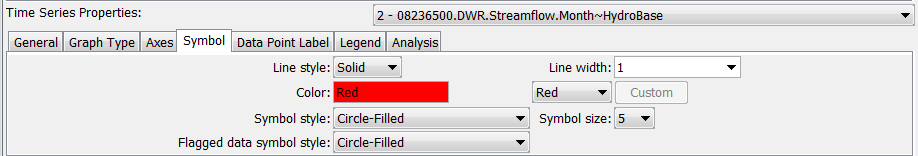
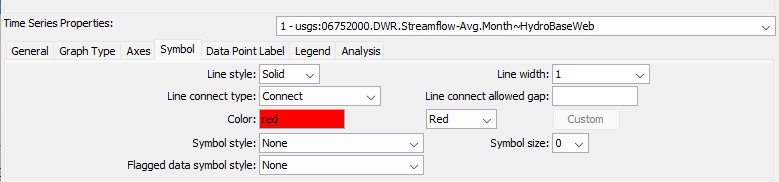
Update for 14.9.2 release, issue #141
Mainly this involves enabling step graphs.

Changed region(s): [[0.0, 0.0, 1.0, 1.0]]

diff --git a/mkdocs-project/docs/appendix-tsview/tsview.md b/mkdocs-project/docs/appendix-tsview/tsview.md
@@ -639,6 +639,18 @@ The following example is for reservoir storage and also indicates data issues on
 **<p style="text-align: center;">
 Example Stacked Area Graph (<a href="../TSView_Graph_AreaStacked_YearReservoir.png">see full-size image</a>)
 </p>**
+
+The following example uses the same time series 3 times but with different `LineConnectType` time series product values
+to control the visualization.
+Using steps can provide a graph that is similar to a bar graph but without the problems of ensuring equal spacing between bars.
+
+**<p style="text-align: center;">
+![Time Series Stacked Area Graph with different LineConnectType](TSView_Graph_AreaStacked_LineConnectType.png)
+</p>**
+
+**<p style="text-align: center;">
+Example Stacked Area Graph with Different `LineConnectType` (<a href="../TSView_Graph_AreaStacked_LineConnectType.png">see full-size image</a>)
+</p>**
  
 #### Bar Graph ####
 
@@ -1848,6 +1860,8 @@ Data (Time Series) Properties
 |`LegendFormat`|The legend for the data can be specified and will override the SubProduct `LegendFormat` property (see that property for details).  The time series property `tsp:LegendFormat` will be used if found.|`Auto`|
 |`LineStyle`|Line style. Currently only `None` (e.g., for symbols only) and `Solid` are allowed.|`Solid`|
 |`LineWidth`|Line width, pixels.|`1`|
+|`LineConnectType`|Indicates how to connect points with a line, for `Line`, `Area`, and `AreaStacked` graph types:<ul><li>`Connect` - connect the data points</li><li>`StepAuto` - automatically determine the connect type:<ul><li>`StepUsingValue` - irregular interval time series and regular interval time series that use dates (no time), because the value should apply for the entire date</li><li>`StepUsingNextValue` - regular interval time series that include time (the timestamp on values is interval-ending in TSTool)</li></ul></li><li>`StepUsingValue`- a stepped line is used to connect points, with the current value being used for the step until the next point</li><li>`StepUsingNextValue` - a stepped line is used to connect points, with the next point's value being used for the step until the next point</ul> | `Connect` |
+|`LineConnectAllowedGap`|Used with irregular interval time series and `Line`, `Area`, and `AreaStacked` graph types to indicated the maximum allowed gap between date/times. Specify as an interval (e.g., `1Day`, `3Month`). If a gap is detected, the line will not be drawn across the gap. This property is useful because irregular interval time series often record only measurements and not missing values.  Therefore, the property can cause a data gap in the graph such as due to seasonal data collection outages. | Any gap is allowed and a line will be drawn between all data points. |
 |`PeriodEnd`|Ending date for time series data in the data item. The date should be formatted according to common conventions (e.g., `YYYY-MM-DD HH:mm`), and should ideally be of appropriate precision for the data being queried.  This property is often set at run time.|Full period is read.|
 |`PeriodStart`|Starting date for time series data in the data item. The date should be formatted according to common conventions (e.g., `YYYY-MM-DD HH:mm`), and should ideally be of appropriate precision for the data being queried. This property is often set at run time.|Full period is read.|
 |`RasterGraphLegendPosition` | The position of raster graph legend.  See values for the `LegendPosition` property.  Currently only `Right` is supported.  The normal legend showing the time series can be displayed in addition to the raster graph legend. | `Right` |
@@ -1861,7 +1875,7 @@ Data (Time Series) Properties
 |`XYScatterConfidenceInterval`|This property is only used with XY scatter plots.  If not blank, the value indicates that confidence level lines should be drawn on the XY Scatter plot for the given confidence interval, percent.  Currently only 99 and 95 percent confidence intervals are supported.  The lines will only be drawn if the curve fit line is drawn (see `RegressionLineEnabled`).|Blank (do not draw).|
 |`YAxis`|Y-axis to use (`Left` or `Right`).|`Left`|
 
-The following table lists symbol styles (shape types) tht can be used to draw a symbol at each data point.
+The following table lists symbol styles (shape types) that can be used to draw a symbol at each data point.
 Some styles have special meaning (e.g., `Instream-Flow` and `Teacup`) and are also used with spatial data layers.
 Additional styles are available for spatial data layers,
 for example to show the value of multiple time series at a point in space.

diff --git a/mkdocs-project/docs/appendix-release-notes/release-notes-14.md b/mkdocs-project/docs/appendix-release-notes/release-notes-14.md
@@ -5,6 +5,7 @@ See also the [GitHub repository issues](https://github.com/OpenCDSS/cdss-app-tst
 for outstanding issues and enhancement requests.
 Issues may also be included in other repositories that are TSTool components.
 
+*   [Changes in Version 14.9.2](#changes-in-version-1492)
 *   [Changes in Version 14.9.1](#changes-in-version-1491)
 *   [Changes in Version 14.9.0](#changes-in-version-1490)
 *   [Changes in Version 14.8.6](#changes-in-version-1486)
@@ -38,6 +39,18 @@ Issues may also be included in other repositories that are TSTool components.
 *   [Release notes for all versions](release-notes.md)
 
 ----------
+
+## Changes in Version 14.9.2 ##
+
+**Maintenance release to enable step graph.**
+
+*   ![change](change.png) [14.9.2] Enable step graphs:
+    +   Add the `LineConnectType` property to [time series products](../appendix-tsview/tsview.md)
+        to indicate how points are connected when drawing.
+    +   Add the `LineConnectAllowedGap` property to [time series products](../appendix-tsview/tsview.md)
+        to indicate the largest date/time interval between points that can be connected with a line,
+        used with irregular interval time series (regular interval time series rely on missing values for gaps).
+    +   Enable the above properties for `Line`, `Area`, and `AreaStacked` graph types.
 
 ## Changes in Version 14.9.1 ##
 

diff --git a/mkdocs-project/docs/appendix-release-notes/release-notes.md b/mkdocs-project/docs/appendix-release-notes/release-notes.md
@@ -34,6 +34,7 @@ TSTool Version History Summary (most current at top)
 
 |**TSTool Version(s)**&nbsp;&nbsp;&nbsp;&nbsp;&nbsp;&nbsp;&nbsp;&nbsp;&nbsp;&nbsp;&nbsp;&nbsp;&nbsp;&nbsp;&nbsp;&nbsp;&nbsp;&nbsp;&nbsp;&nbsp;|**Summary of Major Changes in Version**|**Release Date**|
 |--|--|--|
+|[14.9.2](release-notes-14.md)|Maintenance release to enable step graph. | 2024-01-02 |
 |[14.9.1](release-notes-14.md)|Maintenance release to enhance plugin integration and fix workflow issues. | 2023-12-04 |
 |[14.9.0](release-notes-14.md)|Feature release to use OpenJDK 8, enable additional plotting symbols, map view fixes. | 2023-10-30 |
 |[14.8.6](release-notes-14.md)|Maintenance release to improve time zone handling. | 2023-07-24 |

diff --git a/mkdocs-project/docs/index.md b/mkdocs-project/docs/index.md
@@ -12,7 +12,7 @@ This documentation is generally referred to as the **"User Documentation"** in c
 *   [About the Open Water Foundation](#about-the-open-water-foundation)
 *   [License](#license)
 *   [Source Repository on GitHub](#source-repository-on-github)
-*   [Release Notes](appendix-release-notes/release-notes-14.md) - **this documentation has been updated for TSTool version 14.9.1**
+*   [Release Notes](appendix-release-notes/release-notes-14.md) - **this documentation has been updated for TSTool version 14.9.2**
 
 ----------------
 
